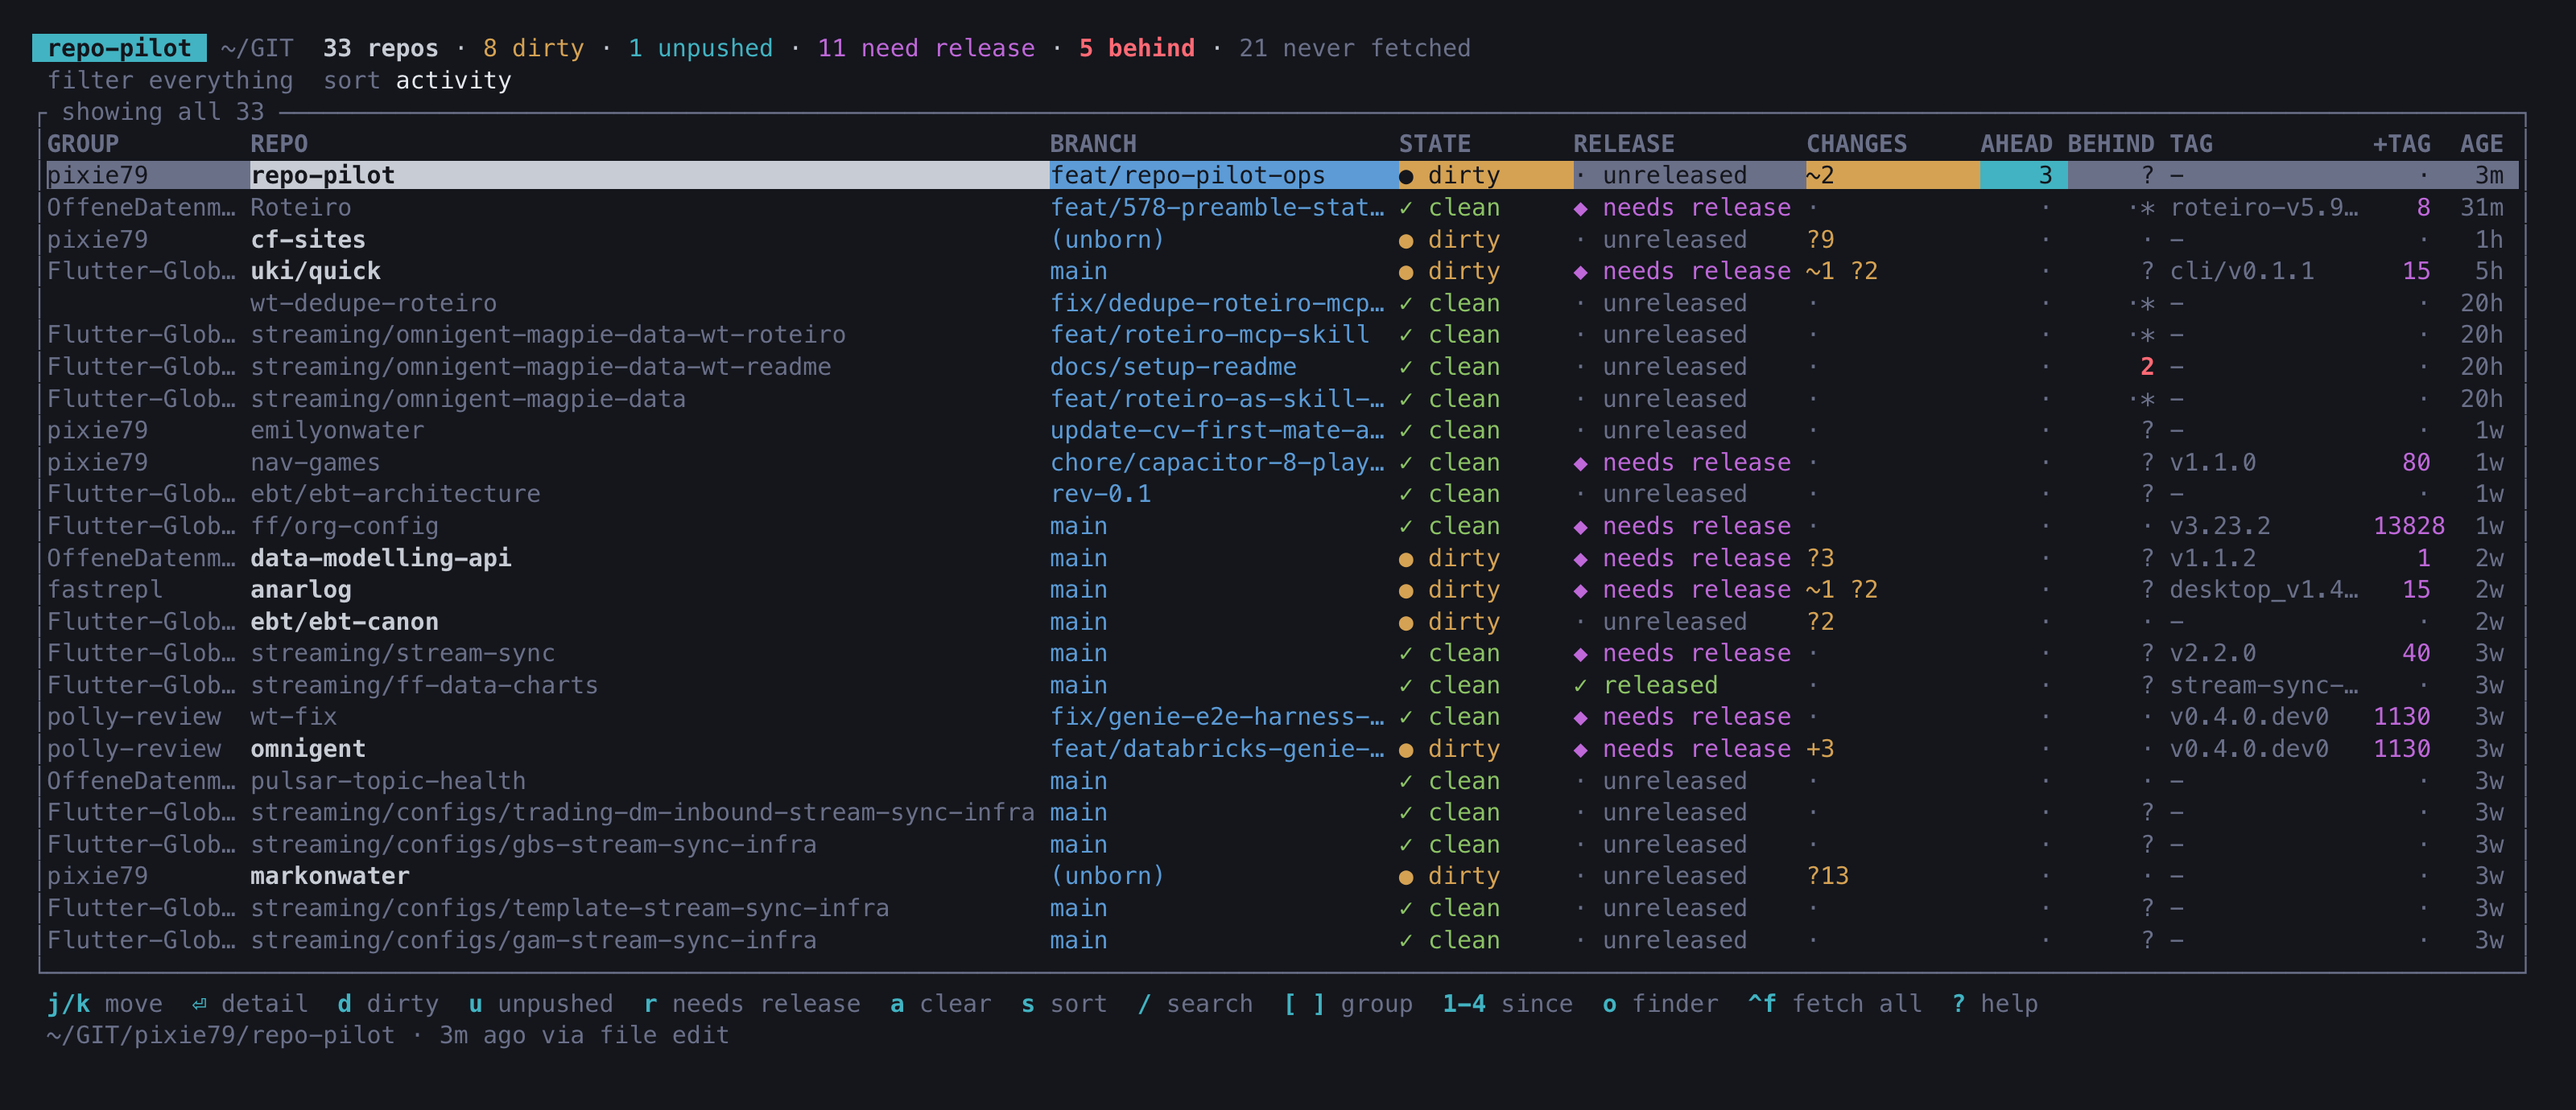
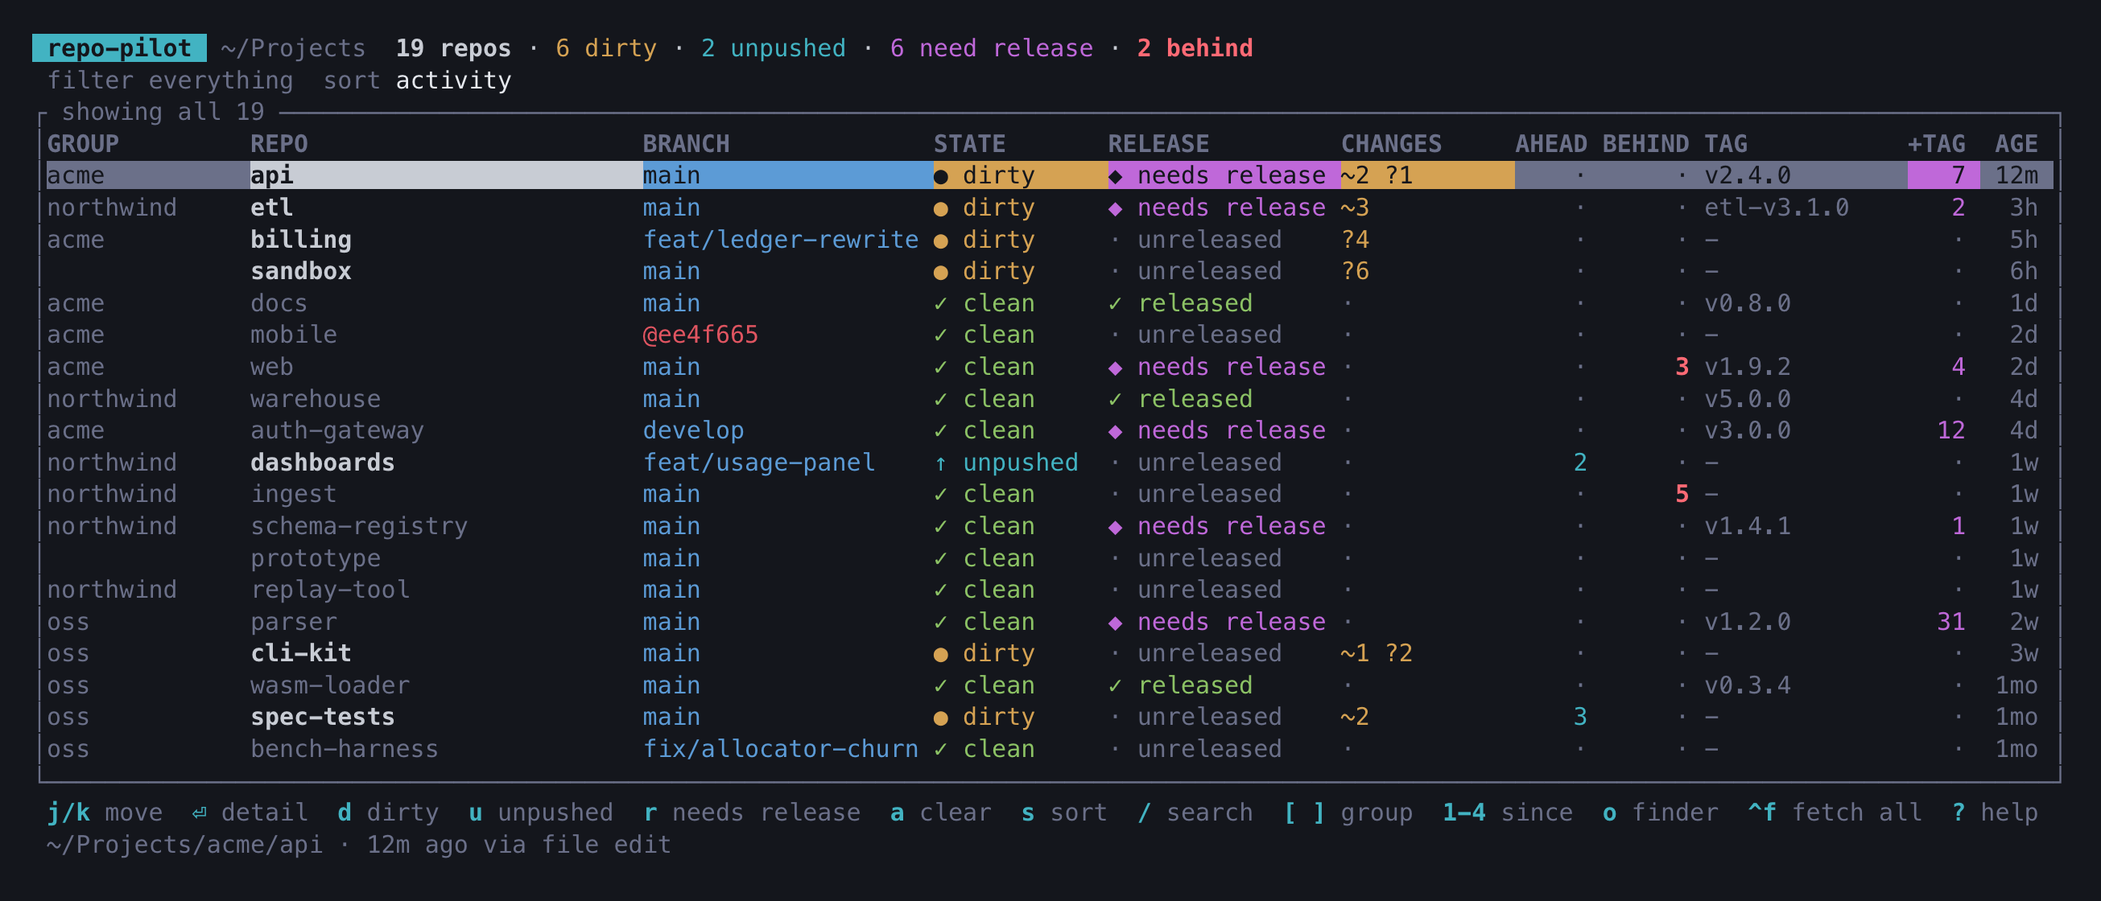
fix: screenshot a synthetic fleet, not the author's checkouts
The previous commit regenerated screenshot.png from whatever the runner
had checked out, which meant this repo's README published real project
names, real branch names and a real directory layout — and left an image
nobody else could reproduce.

scripts/demo-fleet.sh builds a throwaway fleet instead: 19 repos across
three groups plus two loose ones, covering dirty, ahead, behind,
released, needs-release, never-released, detached, stashed and
no-remote-at-all, with commit dates spread from twelve minutes to a month
so the AGE column means something.

The synthetic part is the fleet, not the rendering. These are real git
repos with real commits, real tags and real remote-tracking refs, built
by cloning real bare upstreams, so the dashboard probes them exactly as
it probes yours. Nothing is faked at the rendering layer, which is the
only way a screenshot can stay honest.

Two details worth keeping:

- The demo runs under a stand-in HOME so the header reads `~/Projects`
  rather than a mktemp path with a random suffix in it, and that HOME is
  canonicalized with `pwd -P` — on macOS /var is a symlink to /private/var,
  discovery canonicalizes repo paths, and an uncanonicalized HOME fails to
  prefix-match, which is what left the raw path in the footer on the first
  attempt.
- XDG_CONFIG_HOME and XDG_CACHE_HOME point into the temp directory, so
  regenerating the screenshot neither reads nor disturbs the real config
  and cache.
[…]

Changed region(s): [[0.0, 0.0312, 0.9931, 0.9688], [0.8069, 0.75, 0.8379, 0.7812], [0.8069, 0.3125, 0.8379, 0.3438]]

diff --git a/README.md b/README.md
@@ -534,10 +534,18 @@ Views: `none`, `filtered`, `detail`, `help`, `search`, `scanning`.
 
 Add `--html` and the same frame comes out as a standalone page with every
 cell's colour intact. That is what `scripts/screenshot.sh` feeds to a headless
-browser to regenerate `screenshot.png`, so the image in this README is drawn by
-the real UI code rather than scraped from someone's terminal, and cannot drift
-from what the dashboard actually renders. It shows whatever your configured
-`roots` hold, so run it somewhere with a fleet worth showing.
+browser to regenerate `screenshot.png`, so the image at the top of this README
+is drawn by the real UI code rather than scraped from someone's terminal, and
+cannot drift from what the dashboard actually renders.
+
+It renders against a throwaway fleet built by `scripts/demo-fleet.sh` rather
+than against whatever you happen to have checked out — a screenshot of real
+work publishes real branch names, and makes the image unreproducible by anyone
+else. The synthetic part is the fleet, not the rendering: those are real git
+repos with real commits, tags and remote-tracking refs, covering dirty, ahead,
+behind, released, needs-release, never-released, detached and no-remote, so the
+dashboard is doing exactly what it does against yours. `KEEP=1
+scripts/demo-fleet.sh /tmp/fleet` leaves one on disk to poke at.
 
 ## Licence
 

diff --git a/PLAN.md b/PLAN.md
@@ -112,8 +112,11 @@ that reports is untouched. `--root PATH` overrides.
   repos across 6 groups. The shipped default `exclude` list was upstream's
   author's own fixture repos, which excluded nothing for anyone else — now
   empty.
-- `screenshot.png` regenerated from the real dashboard against `~/GIT`, via a
-  new `tui-snapshot --html` and `scripts/screenshot.sh`.
+- `screenshot.png` regenerated from the real dashboard, via a new
+  `tui-snapshot --html` and `scripts/screenshot.sh`. It renders against a
+  synthetic 19-repo fleet built by `scripts/demo-fleet.sh`, not against `~/GIT`:
+  a screenshot of real checkouts publishes real branch names and cannot be
+  reproduced by anyone else.
 - Fixed while regenerating it: left-aligned table cells had no gutter, so a
   value that exactly filled its column ran into the next one
   (`Flutter-Globalebt/ebt-architecture`). Only GROUP ever showed it.
